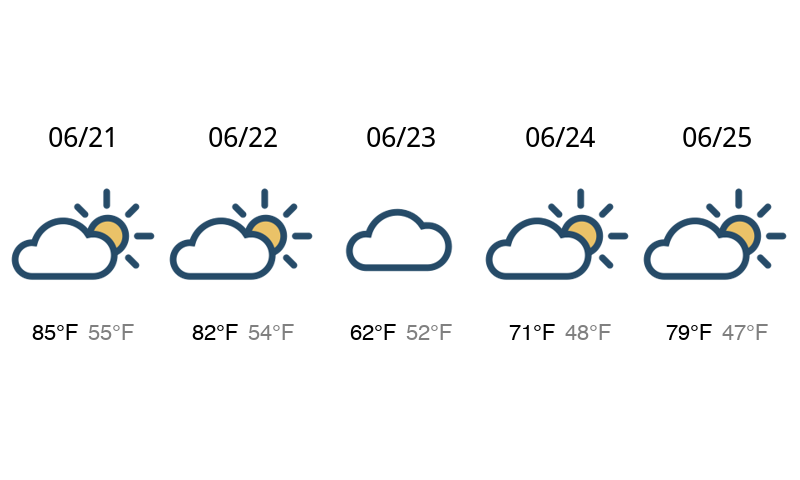
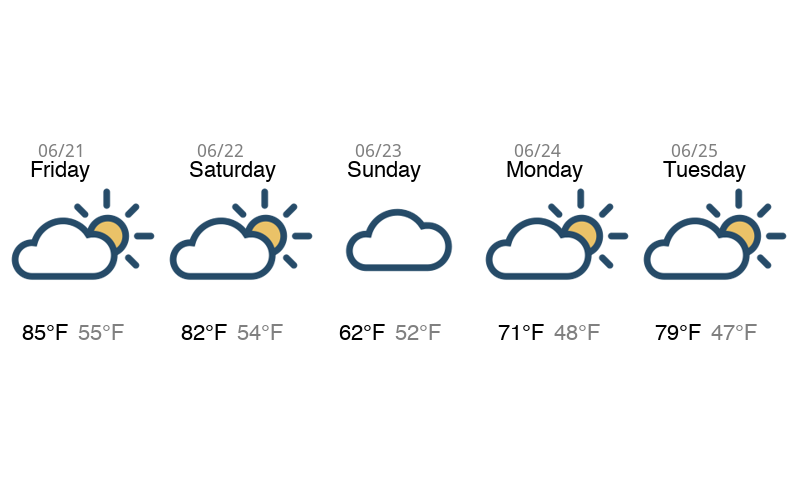
add day of the week

diff --git a/assets/tools/forecast_builder/WeatherData.py b/assets/tools/forecast_builder/WeatherData.py
@@ -4,7 +4,7 @@ import requests
 import json
 from PIL import Image, ImageDraw, ImageFont
 
-DEBUG = False
+DEBUG = True
 
 CWD = os.getcwd()
 ICON_DIR = CWD + "/assets/images/weather_icons/"
@@ -16,7 +16,7 @@ CENTER_HEIGHT = HEIGHT / 2
 CENTER = (CENTER_WIDTH, CENTER_HEIGHT)
 SPACING = 8
 TODAY = datetime.today().strftime("%m-%d-%Y")
-FONT_SIZE_HEADER = 28
+FONT_SIZE_HEADER = 18
 FONT_SIZE_SUB = 22
 FONT_HEADER = ImageFont.truetype(CWD + "/assets/fonts/Font.ttc", FONT_SIZE_HEADER)
 FONT_SUB = ImageFont.truetype(CWD + "/assets/fonts/Helvetica.ttc", FONT_SIZE_SUB)
@@ -84,6 +84,7 @@ class WeatherData:
             condition = self.icons[day["weather"][0]["description"]]
             min_temp = str(day["temp"]["min"]) + "\u2109"
             max_temp = str(day["temp"]["max"]) + "\u2109"
+            week_day = day["weekday"]
             icon_image = Image.open(condition).convert("RGBA")
             w, h = icon_image.size
             text_w = self.text_size(day_name)[0]
@@ -91,9 +92,15 @@ class WeatherData:
             forecast_image.paste(icon_image, (pos, h_offset), mask=icon_image)
             draw = ImageDraw.Draw(forecast_image)
             draw.text(
-                (pos + text_w / 2 + SPACING, HEIGHT / 4),
+                (pos + text_w / 2 + SPACING, HEIGHT / 4 + 20),
                 day_name,
                 font=FONT_HEADER,
+                fill="gray",
+            )
+            draw.text(
+                (pos + text_w / 2, HEIGHT / 4 + 40),
+                week_day,
+                font=FONT_SUB,
                 fill="black",
             )
             draw.text(
@@ -129,6 +136,9 @@ class WeatherData:
 
     def parse_response(self, response) -> dict:
         for i in range(8):
+            response[i]["weekday"] = datetime.fromtimestamp(
+                int(response[i]["dt"])
+            ).strftime("%A")
             response[i]["dt"] = datetime.fromtimestamp(int(response[i]["dt"])).strftime(
                 "%m/%d"
             )
